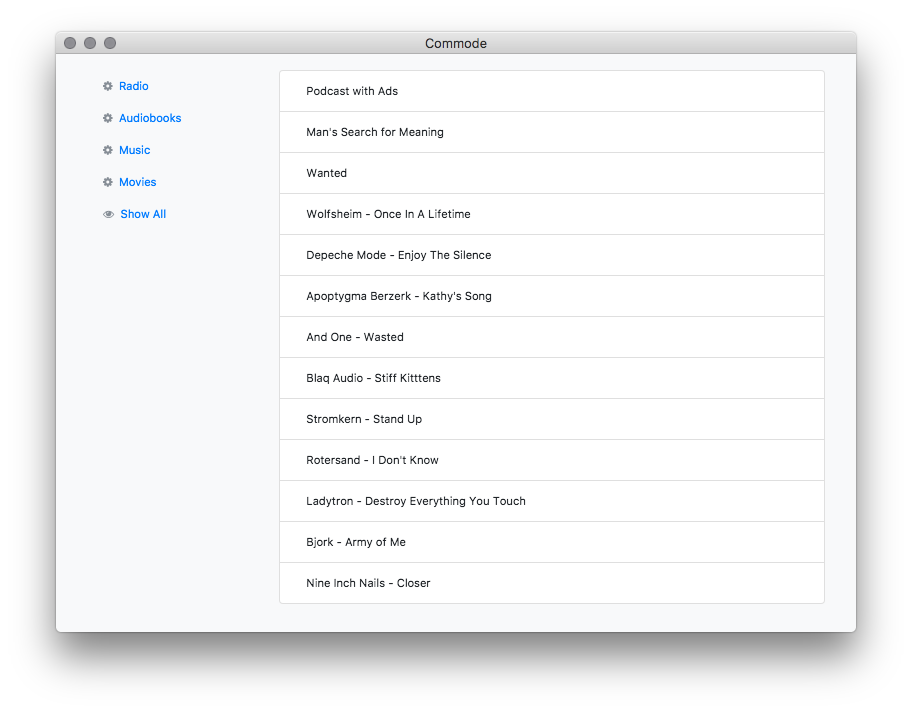
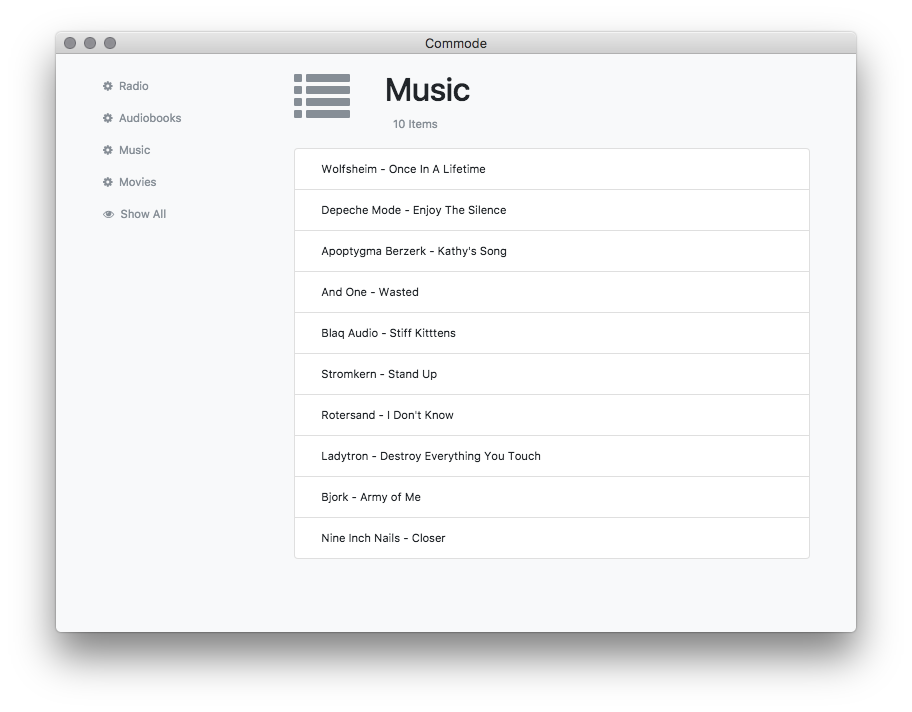
Selection Titlebar/Typography

diff --git a/index.html b/index.html
@@ -36,17 +36,47 @@
         <div class="col-md-3 pb-3">
 
           <ul class="nav flex-column">
-            <li v-for="item in computedFilters" class="nav-item" v-on:click="select(item)"><a class="nav-link" href="#"><i class="fa fa-cog text-muted"></i>&nbsp; {{ item.name }}</a></li>
-            <li class="nav-item" v-on:click="deselect"><a class="nav-link" href="#"><i class="fa fa-eye text-muted"></i>&nbsp; Show All</a></li>
+            <li v-for="item in computedFilters" class="nav-item" v-on:click="select(item)"><a class="nav-link text-muted" href="#"><i class="fa fa-cog text-muted"></i>&nbsp; {{ item.name }}</a></li>
+            <li class="nav-item" v-on:click="deselect"><a class="nav-link text-muted" href="#"><i class="fa fa-eye text-muted"></i>&nbsp; Show All</a></li>
           </ul>
 
         </div>
 
         <div class="col-md-9">
 
-          <ul class="list-group">
-            <li v-for="item in computedDatabase" class="list-group-item" v-on:click="select(item)"><i class="fa fa-foo text-muted"></i>&nbsp; {{ item.name }}</li>
-          </ul>
+
+            <div class="container-fluid pb-3 d-none d-md-block d-lg-block d-xl-block">
+              <div class="row">
+
+                <div class="col-2">
+                  <i class="fa fa-list fa-5x text-muted"></i>
+                </div>
+
+                <div class="col-10">
+
+                  <div class="h2">{{title}}</div>
+                  <div class="text-muted pl-2 d-inline-block">{{computedDatabase.length}} Item{{computedDatabase.length==1?'':'s'}}</div>
+                </div>
+
+              </div>
+            </div>
+
+
+          <!-- -->
+          <div class="container-fluid">
+            <div class="row">
+              <div class="col-12">
+
+
+                  <ul class="list-group">
+                    <li v-for="item in computedDatabase" class="list-group-item " v-on:click="select(item)"><i class="fa fa-foo text-muted"></i>&nbsp; {{ item.name }}</li>
+                  </ul>
+
+
+              </div>
+            </div>
+          </div>
+          <!-- -->
 
         </div>
       </div>

diff --git a/renderer.js b/renderer.js
@@ -6,6 +6,8 @@ new Vue({
   el: '#primary',
 
   data: {
+    title:'',
+    subtitle:'',
     filter: i=> i.power >= 8000,
     filters: [],
     db: [],
@@ -32,10 +34,14 @@ new Vue({
 
     select:  function (e) {
       this.filter = e.filter;
+      this.title = e.name;
+
     },
 
     deselect:  function (e) {
+      this.title = 'All Items';
       this.filter = i => true;
+
     },
 
     update:  function (e) {
